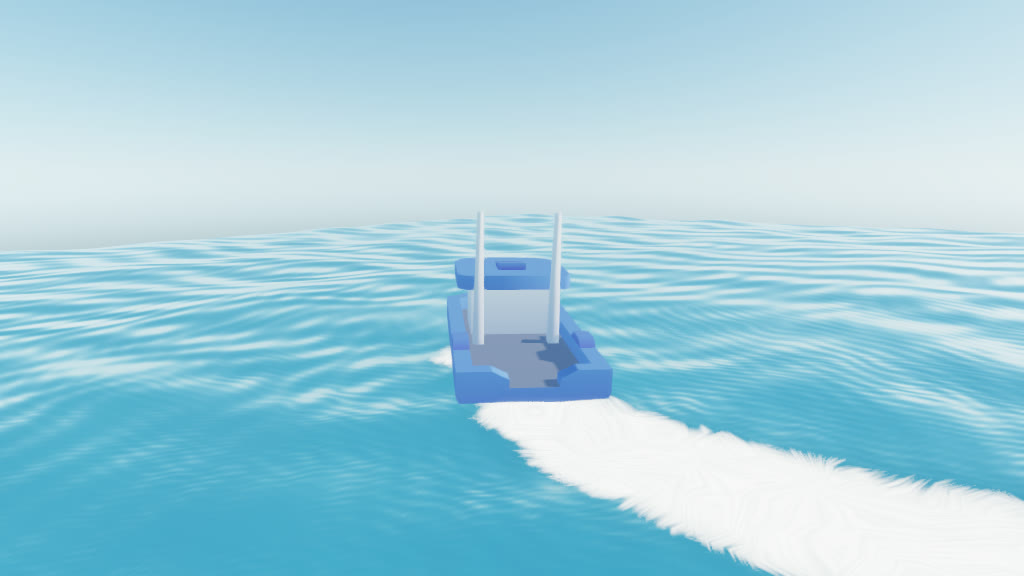
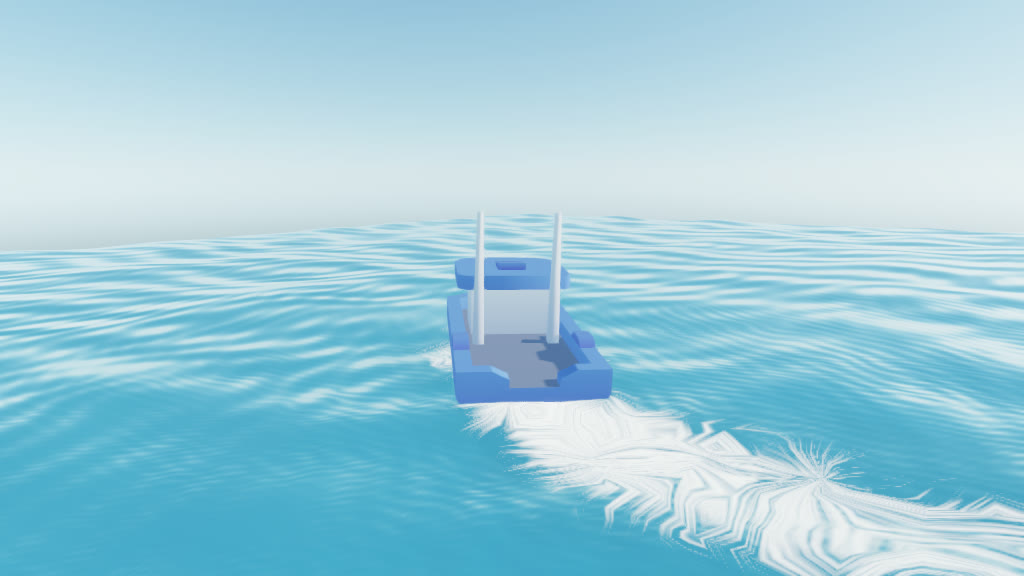
Break the boat wake up into lace and add the foam before and after (#982)
The wake foam is capped at a group value of 0.8 so the water shader draws lace with the sea showing through, and it fades with the square of age so the far end is mostly gone.

Adds a before and after of a time-driven ocean without a boat, a --wind option for the buoyancy film, and the new wake height default (0.06) in the float schema text.

Changed region(s): [[0.4375, 0.6875, 1.0, 1.0], [0.4062, 0.5938, 0.4375, 0.6562]]

diff --git a/src/ocean-wake.js b/src/ocean-wake.js
@@ -1,5 +1,5 @@
 // A wake on the ocean: a bounded trail of points behind a moving hull. Each point is [x, z, strength, width] in the sea's
-// horizontal plane. Where a point reaches a vertex it raises the `foam` group to full white water and adds a small, choppy
+// horizontal plane. Where a point reaches a vertex it raises the `foam` group to lace and adds a small, choppy
 // displacement, so the churned water behind the boat is rough and white and never an ironed-flat patch. The trail is a pure
 // function of the points, so the same hull path gives the same vertices on every run.
 
@@ -12,8 +12,11 @@ const REFERENCE_SPEED = 3;
 // The trail starts this fraction of `width` wide at the stern and spreads by this multiple of `width` over its life: a V that opens.
 const STERN_WIDTH_FRACTION = 0.5;
 const SPREAD_PER_LIFETIME = 1.5;
-// Foam is full white where the strength times this gain reaches 1, with a flat top and a short edge, so the wake has a clear body.
-const FOAM_GAIN = 1.4;
+// The water shader draws foam where the group is above 0.5, as lace whose holes close as the group rises, so a wake writes
+// 0.5 + 0.5 * mask. The mask is capped at 0.6 (a group value of 0.8): lace with the sea showing through, never opaque white.
+// The mask follows strength, so the trail breaks up and thins out along its length.
+const FOAM_MASK_CAP = 0.6;
+const FOAM_GAIN = 1.1;
 const MINIMUM_STRENGTH = 0.01;
 
 function describe(value) {
@@ -63,10 +66,10 @@ export function wakeAt(wake, positionX, positionZ) {
     const distance = Math.hypot(positionX - pointX, positionZ - pointZ) / width;
     if (distance > WAKE_FOAM_REACH) continue;
     const reach = strength * Math.exp(-(distance ** 4));
-    foam = Math.max(foam, Math.min(1, FOAM_GAIN * reach));
+    foam = Math.max(foam, FOAM_MASK_CAP * Math.min(1, FOAM_GAIN * reach));
     weight = Math.max(weight, reach);
   }
-  return { foam, offset: weight > 0 ? wake.height * weight * churn(positionX, positionZ) : 0 };
+  return { foam: foam > 0.001 ? 0.5 + 0.5 * foam : 0, offset: weight > 0 ? wake.height * weight * churn(positionX, positionZ) : 0 };
 }
 
 /**
@@ -81,7 +84,7 @@ export function wakeTrail({ sample, time, lifetime, width, strength, count = MAX
   for (let index = 0; index < total; index++) {
     const age = lifetime * index / total;
     const stern = sample(time - age);
-    const fade = 1 - age / lifetime;
+    const fade = (1 - age / lifetime) ** 2;
     const pointStrength = strength * Math.min(1, stern.speed / REFERENCE_SPEED) * fade;
     if (pointStrength < MINIMUM_STRENGTH) continue;
     points.push([stern.x, stern.z, pointStrength, width * (STERN_WIDTH_FRACTION + SPREAD_PER_LIFETIME * age / lifetime)]);

diff --git a/tests/ocean-wake.test.js b/tests/ocean-wake.test.js
@@ -48,11 +48,13 @@ test('a hull at rest leaves no wake and the trail starts no earlier than time 0'
   assert.ok(underway.length > 20, `${underway.length} points at time 0 for a hull already moving`);
 });
 
-test('a wake is white water with a flat top and an edge, adds no trough, and nothing far away', () => {
+test('a wake is capped lace with a flat top and an edge, adds no trough, and nothing far away', () => {
   const wake = normalizeWake({ points: [[0, 0, 1, 1]], height: 0.2 });
-  assert.equal(wakeAt(wake, 0, 0).foam, 1);
-  assert.equal(wakeAt(wake, 0.5, 0).foam, 1, 'full foam across the body of the wake');
-  assert.ok(wakeAt(wake, 1.4, 0).foam < 0.5, 'a short edge');
+  assert.ok(Math.abs(wakeAt(wake, 0, 0).foam - 0.8) < 1e-9, 'capped at 0.8, below full white');
+  assert.ok(wakeAt(wake, 0.5, 0).foam > 0.75, 'dense across the body of the wake');
+  assert.ok(wakeAt(wake, 1.4, 0).foam < 0.55, 'a short edge');
+  const faint = normalizeWake({ points: [[0, 0, 0.3, 1]] });
+  assert.ok(wakeAt(faint, 0, 0).foam < 0.7 && wakeAt(faint, 0, 0).foam > 0.5, 'a weak point is a thin lace');
   assert.deepEqual(wakeAt(wake, 20, 0), { foam: 0, offset: 0 });
 });
 
